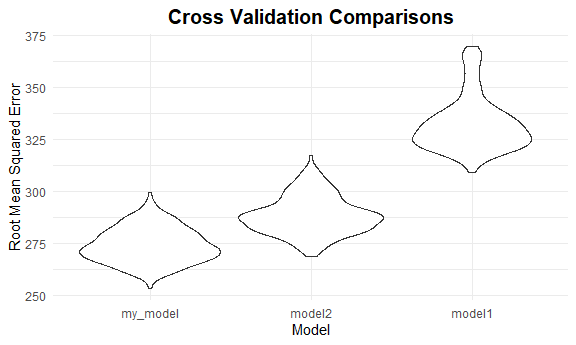
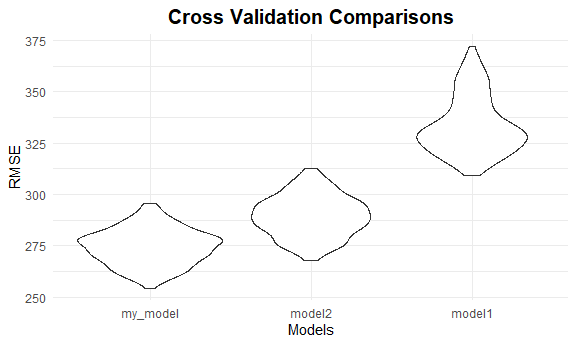
omg! error fixed!!!

diff --git a/p8105_hw6_jg4294.md b/p8105_hw6_jg4294.md
@@ -211,8 +211,8 @@ my_model %>% broom::tidy() %>% knitr::kable()
 **My\_model: A plot of model residuals against fitted values**
 
 ``` r
-pred_vs_resid =  
-    birthweight %>% 
+
+birthweight %>% 
     add_predictions(my_model) %>% 
     add_residuals(my_model) %>% 
     select(pred, resid) %>%
@@ -226,6 +226,11 @@ pred_vs_resid =
        y = "Residuals (grams)")
 ```
 
+<img src="p8105_hw6_jg4294_files/figure-gfm/resid_fit_plot-1.png" width="90%" style="display: block; margin: auto;" />
+
+Based on the graph above, this is no obvious relationship between the
+residuals and fitted values. All we can see is a huge cluster.
+
 **Compare my model to the following two models:**
 
 ``` r
@@ -234,13 +239,7 @@ model1 = lm(bwt ~ blength + gaweeks, data = birthweight) %>%
   #broom::glance() %>% 
   broom::tidy() %>%
   knitr::kable()
-#One using head circumference, length, sex, and all interactions (including the three-way interaction) between these
-model2 = lm(bwt ~ bhead * blength * babysex, data = birthweight) %>%
-  #broom::glance() %>%
-  broom::tidy() %>%
-  knitr::kable()
-
-model1; model2
+model1
 ```
 
 | term        |     estimate | std.error |  statistic | p.value |
@@ -248,6 +247,16 @@ model1; model2
 | (Intercept) | \-4347.66707 | 97.958360 | \-44.38281 |       0 |
 | blength     |    128.55569 |  1.989891 |   64.60439 |       0 |
 | gaweeks     |     27.04673 |  1.717930 |   15.74379 |       0 |
+
+``` r
+
+#One using head circumference, length, sex, and all interactions (including the three-way interaction) between these
+model2 = lm(bwt ~ bhead * blength * babysex, data = birthweight) %>%
+  #broom::glance() %>%
+  broom::tidy() %>%
+  knitr::kable()
+model2
+```
 
 | term                        |       estimate |    std.error |   statistic |   p.value |
 | :-------------------------- | -------------: | -----------: | ----------: | --------: |
@@ -298,11 +307,16 @@ cv_bw %>%
   geom_violin() +
   labs(
         title = "Cross Validation Comparisons",
-        x = "Model",
-        y = "Root Mean Squared Error")
+        x = "Models",
+        y = "RMSE")
 ```
 
 <img src="p8105_hw6_jg4294_files/figure-gfm/cross_v-1.png" width="90%" style="display: block; margin: auto;" />
+
+Based on the the prediction error distribution for each candidate model
+above, we find that `my_model` has the best `RMSE` and it seems to
+perform best among the three models, and the `model1`(with main effect
+only) perform the worst among the three models.
 
 ## Problem 3
 
@@ -321,3 +335,101 @@ weather_df =
     tmax = tmax / 10) %>%
   select(name, id, everything())
 ```
+
+``` r
+# get 5000 bootstrap samples
+boot_strap = 
+  weather_df %>% 
+  bootstrap(n = 5000) %>% 
+  mutate(
+    models = map(strap, ~lm(tmax ~ tmin, data = .x)),
+    tidy_models = map(models, broom::tidy),
+    glance_models = map(models, broom::glance)) %>% 
+  
+  unnest(tidy_models, glance_models) %>% 
+  select(.id, term, estimate, r.squared) %>% 
+  
+  pivot_wider(
+    names_from = term,
+    values_from = estimate) %>% 
+  rename(
+    beta_0 = `(Intercept)`,
+    beta_1 = tmin) %>% 
+  
+  mutate(log_beta = log(beta_0*beta_1)) %>% 
+  select(r.squared, log_beta)
+head(boot_strap)
+## # A tibble: 6 x 2
+##   r.squared log_beta
+##       <dbl>    <dbl>
+## 1     0.908     2.01
+## 2     0.912     2.05
+## 3     0.927     2.02
+## 4     0.907     2.05
+## 5     0.914     1.99
+## 6     0.908     2.03
+```
+
+``` r
+# Distribution of R_square
+boot_strap %>% 
+    ggplot(aes(x = r.squared)) + 
+    geom_density(fill = "lightblue", show.legend = TRUE) +
+    geom_vline(xintercept = mean(boot_strap$r.squared), linetype = "dashed", 
+                color = "blue", size = 1) +
+    labs(
+        title = "Distribution of R Square",
+        x = quote(R^2)
+    )
+```
+
+<img src="p8105_hw6_jg4294_files/figure-gfm/plot_r_squared-1.png" width="90%" style="display: block; margin: auto;" />
+
+The value of R\_square varies from 0 to 1, and we want to observe a
+R\_square that is as close to 1 as possible because it indicates the
+variation in y is being well explained by x.
+
+Based on density plot above, we find the distribution of R square is
+quite close to the shape of normal distribution with a mean of
+0.9114479. Good\!
+
+``` r
+# Distribution of log(β0_hat ∗β1_hat)
+boot_strap %>% 
+    ggplot(aes(x = log_beta)) + 
+    geom_density(fill = "lightpink", alpha = 0.25) +
+    geom_vline(xintercept = mean(boot_strap$log_beta), linetype = "dashed", 
+                color = "red", size = 1) +
+    labs(
+        title = "Distribution of log(β0_hat ∗ β1_hat)",
+        x = "log(β0_hat∗β1_hat)")
+```
+
+<img src="p8105_hw6_jg4294_files/figure-gfm/plot_beta-1.png" width="90%" style="display: block; margin: auto;" />
+
+The distribution of log(β0\_hat ∗β1\_hat) is very close to the shape of
+normal distribution with a mean of 2.0129797. Good\!
+
+``` r
+# 95% CI for r^2
+quantile(boot_strap$r.squared, probs = c(0.025,0.975)) %>% knitr::kable(caption = "95% CI for R_Square")
+```
+
+|       |         x |
+| :---- | --------: |
+| 2.5%  | 0.8936031 |
+| 97.5% | 0.9271989 |
+
+95% CI for R\_Square
+
+``` r
+# 95% CI for log(β0_hat∗β1_hat)
+quantile(boot_strap$log_beta, probs = c(0.025,0.975)) %>% knitr::kable(caption = "95% CI for log(β0_hat∗β1_hat)")
+```
+
+|       |        x |
+| :---- | -------: |
+| 2.5%  | 1.962510 |
+| 97.5% | 2.059122 |
+
+95% CI for log(ß0\_hat\*ß1\_hat)
